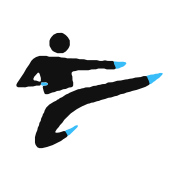
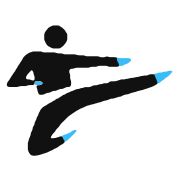
Icona: figura più grande e contorni più lisci
- margine attorno alla figura ridotto (da circa 11% a 4% per lato)
- semplificazione dei contorni più fine (testa di nuovo rotonda)
- favicon e apple-touch-icon rigenerate

diff --git a/scripts/make-icon.py b/scripts/make-icon.py
@@ -145,7 +145,7 @@ def contours_path(mask_soft, x0, y0):
     for c in cnts:
         if cv2.contourArea(c) < (SCALE * SCALE * 6):
             continue
-        c = cv2.approxPolyDP(c, SCALE * 0.18, True)
+        c = cv2.approxPolyDP(c, SCALE * 0.06, True)  # contorni fini: la figura è grande nell'icona
         pts = [(p[0][0] / SCALE - x0, p[0][1] / SCALE - y0) for p in c]
         d.append("M" + " L".join(f"{x:.1f} {y:.1f}" for x, y in pts) + " Z")
     return " ".join(d)
@@ -153,7 +153,7 @@ def contours_path(mask_soft, x0, y0):
 # 4. Inquadratura quadrata attorno alla figura, con margine
 ys, xs = np.where(body | wave)
 x_min, x_max, y_min, y_max = xs.min(), xs.max(), ys.min(), ys.max()
-side = max(x_max - x_min, y_max - y_min) * 1.22
+side = max(x_max - x_min, y_max - y_min) * 1.08  # margine ridotto: la figura occupa più spazio
 cx, cy = (x_min + x_max) / 2, (y_min + y_max) / 2
 x0, y0 = cx - side / 2, cy - side / 2
 
